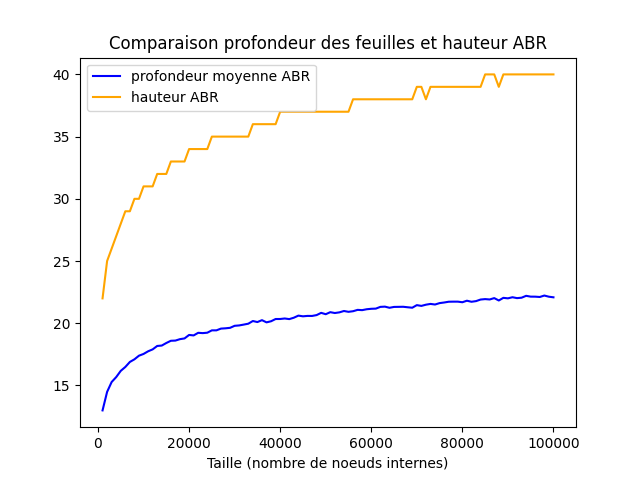
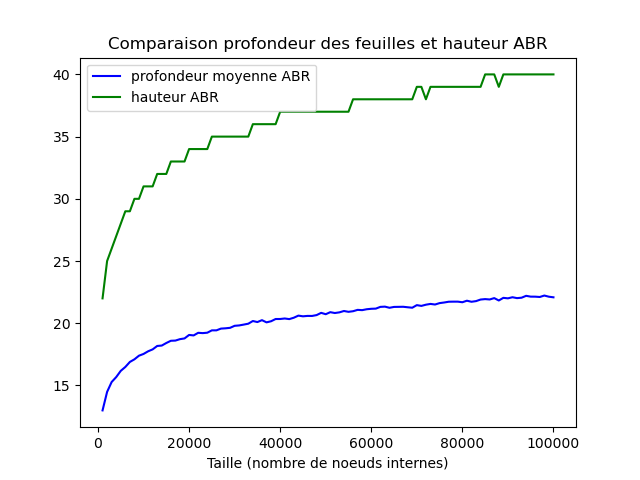
Fix couleurs graphes hauteur vs profondeur

diff --git a/graph.py b/graph.py
@@ -110,7 +110,7 @@ plt.savefig("./graphiques/profondeur_par_taille.png")
 # graphique profondeur moyenne + hauteur Remy
 plt.figure()
 plt.plot(data['taille'], data['prof_moy_ABR'], label="profondeur moyenne ABR", color='blue')
-plt.plot(data['taille'], data['hauteur_ABR'], label="hauteur ABR", color='orange')
+plt.plot(data['taille'], data['hauteur_ABR'], label="hauteur ABR", color='green')
 plt.xlabel("Taille (nombre de noeuds internes)")
 plt.title("Comparaison profondeur des feuilles et hauteur ABR")
 plt.legend()
@@ -118,8 +118,8 @@ plt.savefig("./graphiques/ABR_profVShauteur.png")
 
 # graphique profondeur moyenne + hauteur ABR
 plt.figure()
-plt.plot(data['taille'], data['prof_moy_Remy'], label="profondeur moyenne Remy", color='blue')
-plt.plot(data['taille'], data['hauteur_Remy'], label="hauteur Remy", color='orange')
+plt.plot(data['taille'], data['prof_moy_Remy'], label="profondeur moyenne Remy", color='orange')
+plt.plot(data['taille'], data['hauteur_Remy'], label="hauteur Remy", color='green')
 plt.xlabel("Taille (nombre de noeuds internes)")
 plt.title("Comparaison profondeur des feuilles et hauteur Remy")
 plt.legend()
